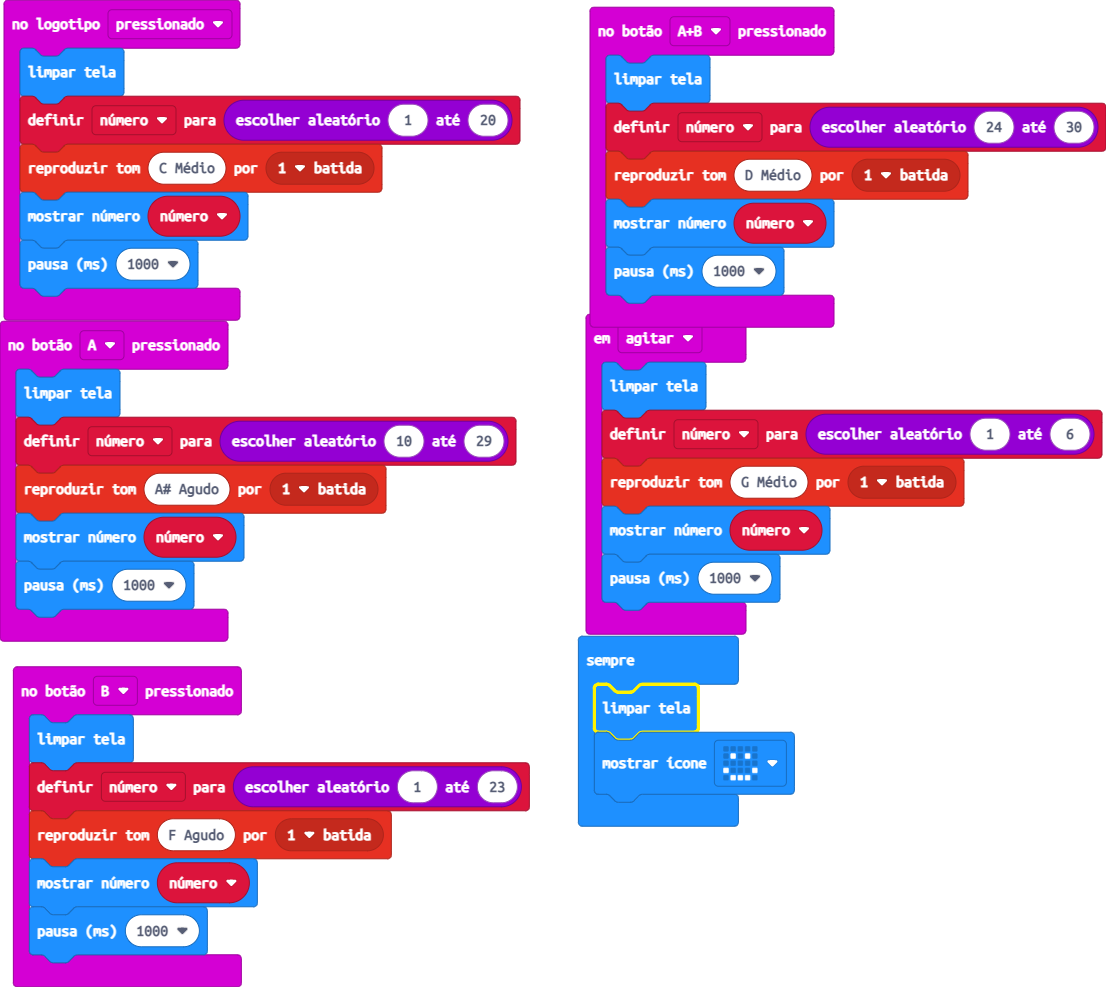
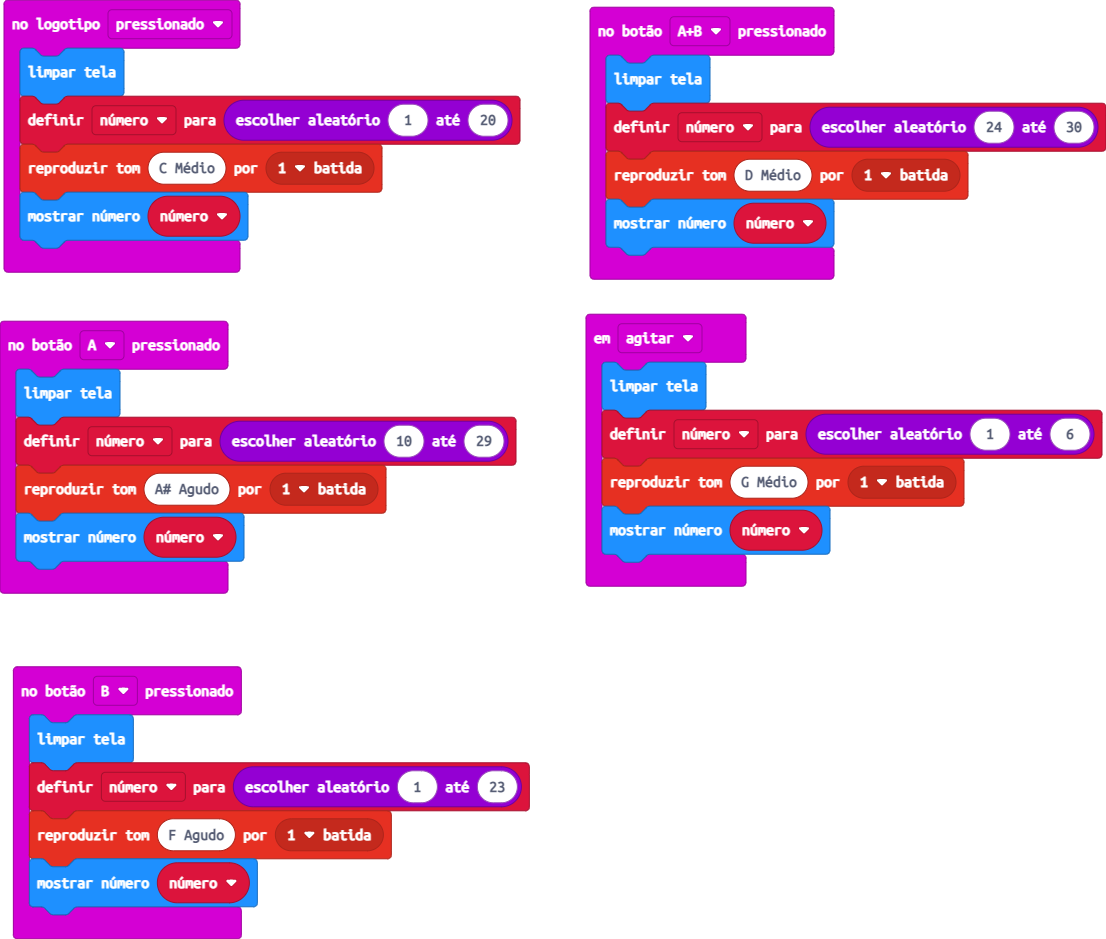
Atualizar 'main.blocks, main.ts'

diff --git a/main.ts b/main.ts
@@ -4,37 +4,28 @@ input.onLogoEvent(TouchButtonEvent.Pressed, function () {
     número = randint(1, 20)
     music.playTone(262, music.beat(BeatFraction.Whole))
     basic.showNumber(número)
-    basic.pause(1000)
 })
 input.onButtonPressed(Button.A, function () {
     basic.clearScreen()
     número = randint(10, 29)
     music.playTone(932, music.beat(BeatFraction.Whole))
     basic.showNumber(número)
-    basic.pause(1000)
 })
 input.onGesture(Gesture.Shake, function () {
     basic.clearScreen()
     número = randint(1, 6)
     music.playTone(392, music.beat(BeatFraction.Whole))
     basic.showNumber(número)
-    basic.pause(1000)
 })
 input.onButtonPressed(Button.AB, function () {
     basic.clearScreen()
     número = randint(24, 30)
     music.playTone(294, music.beat(BeatFraction.Whole))
     basic.showNumber(número)
-    basic.pause(1000)
 })
 input.onButtonPressed(Button.B, function () {
     basic.clearScreen()
     número = randint(1, 23)
     music.playTone(698, music.beat(BeatFraction.Whole))
     basic.showNumber(número)
-    basic.pause(1000)
-})
-basic.forever(function () {
-    basic.clearScreen()
-    basic.showIcon(IconNames.Happy)
 })
